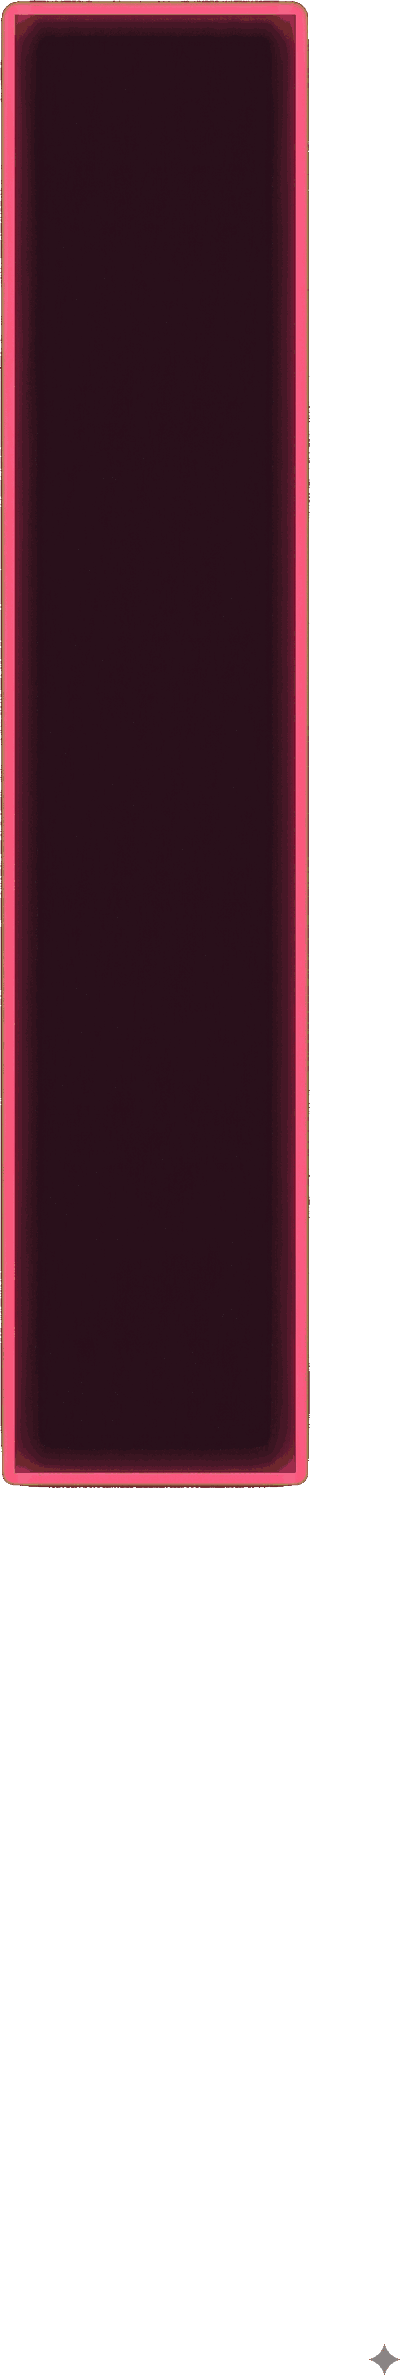
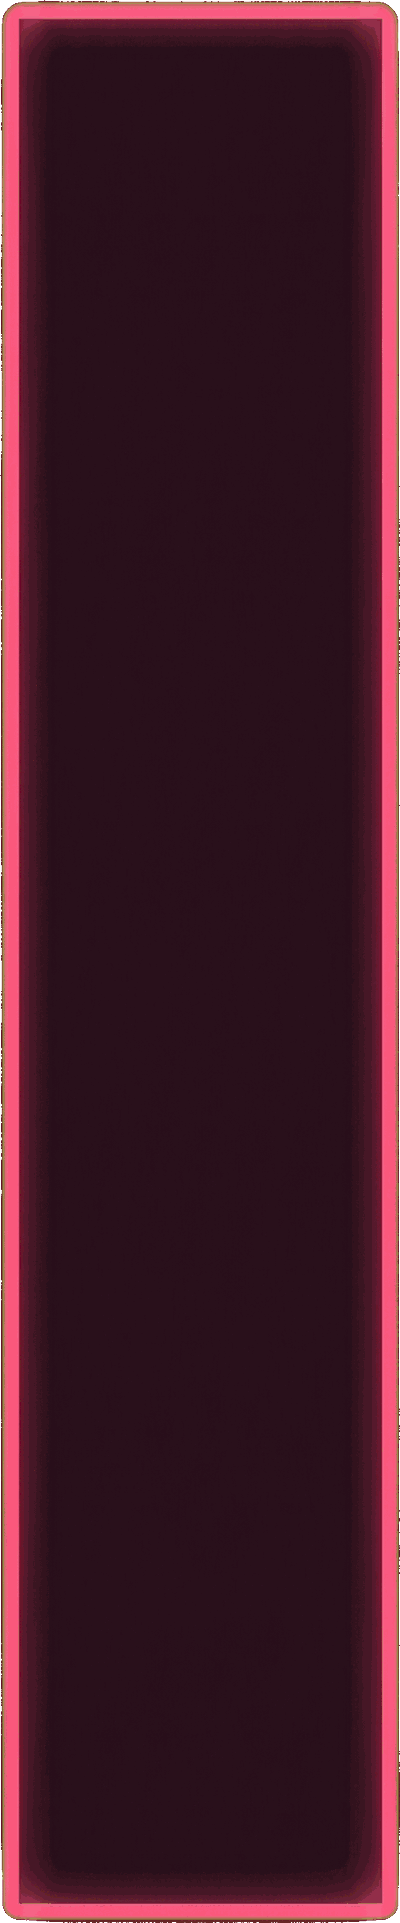
fix: container_body Gemini 워터마크 제거 + 스크립트 우하단 200px 마스킹 추가

diff --git a/scripts/process_container_body.py b/scripts/process_container_body.py
@@ -17,6 +17,13 @@ DST = os.path.join(ROOT, 'skins/neon/container/container_body.png')
 img = Image.open(SRC).convert('RGBA')
 print(f'src: {img.size}, {os.path.getsize(SRC)/1024:.1f}KB')
 
+# Gemini 워터마크 제거 — 우하단 코너 200x200
+arr = np.array(img)
+h, w = arr.shape[:2]
+arr[h-200:h, w-200:w, 3] = 0
+img = Image.fromarray(arr, 'RGBA')
+print('watermark corner cleared')
+
 # 초록 크로마키 제거
 arr = np.array(img)
 mask = (arr[:, :, 1] > 150) & (arr[:, :, 0] < 120) & (arr[:, :, 2] < 120)
